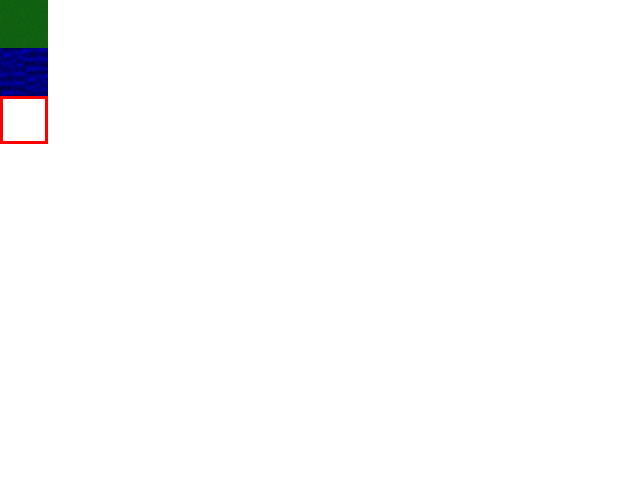
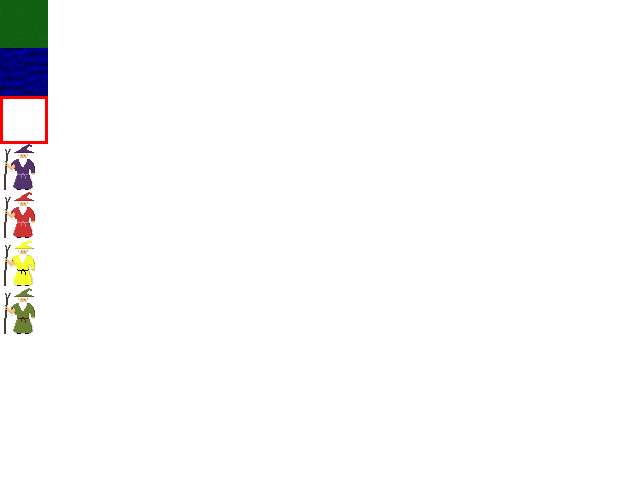
Added some random wizards. It took me so fucking long to draw that goddamn wizard

Changed region(s): [[0.0, 0.2812, 0.0625, 0.7188]]

diff --git a/game_window.py b/game_window.py
@@ -3,7 +3,7 @@ import utils
 from utils import Point,GridCoordsY,GridCoordsX,GridCoords,WorldCoords
 from pygame.locals import *
 from OpenGL.GL import *
-import texture,numpy,random,perlin
+import texture,numpy,random,perlin,wizard
 
 gamedata = None
 
@@ -20,6 +20,7 @@ class Tiles(object):
         self.map_size = map_size
         self.width = map_size[0]
         self.height = map_size[1]
+        self.wizards = []
         
         #cheat by preallocating enough quads for the tiles. We want them to be rendered first because it matters for 
         #transparency, but we can't actually fill them in yet because we haven't processed the files with information
@@ -166,12 +167,20 @@ class Tiles(object):
             self.selected = GridCoords(self.viewpos + pos).to_int()
             #print self.selected
 
+    def AddWizard(self,pos,type):
+        self.wizards.append(wizard.Wizard(pos,type,self.tex_coords))
+
 class GameWindow(object):
-    def __init__(self,):
+    def __init__(self):
+        map_size = (48,24)
         self.tiles = Tiles(texture.TextureAtlas('tiles_atlas_0.png','tiles_atlas.txt'),
                            'tiles.png'  ,
                            'tiles.data' ,
-                           (48,24)     )
+                           map_size     )
+        #this will get passed in eventually, but for now configure statically
+        for i in xrange(4):
+            self.tiles.AddWizard(Point(*[random.randint(0,v-1) for v in map_size]),i)
+        
 
     def Update(self):
         self.tiles.Draw()

diff --git a/wizards.py b/wizards.py
@@ -5,7 +5,7 @@ import utils
 from OpenGL.GL import *
 from OpenGL.GLU import *
 from utils import Point
-import game_window
+import game_window,wizard
 
 class GameData(object):
     screen = None
@@ -37,8 +37,8 @@ if __name__ == '__main__':
     #first make a gamedata struct and set it up in the other modules so they can access it
     #not at all sure that this is best practice.
     gamedata = GameData()
-    utils.gamedata       = gamedata
-    game_window.gamedata = gamedata
+    for module in utils,game_window,wizard:
+        setattr(module,'gamedata',gamedata)
     
     Init(gamedata)
     done = False

diff --git a/wizard.py b/wizard.py
@@ -1,0 +1,15 @@
+import utils
+
+gamedata = None
+
+wizard_types = ['purple_wizard',
+                'red_wizard',
+                'yellow_wizard',
+                'green_wizard']
+
+class Wizard(object):
+    def __init__(self,pos,type,tc):
+        self.pos = pos
+        self.type = type
+        self.quad = utils.Quad(gamedata.quad_buffer,tc = tc[wizard_types[self.type]])
+        utils.setvertices(self.quad.vertex,utils.WorldCoords(self.pos),utils.WorldCoords(self.pos)+gamedata.tile_dimensions,0.5)
